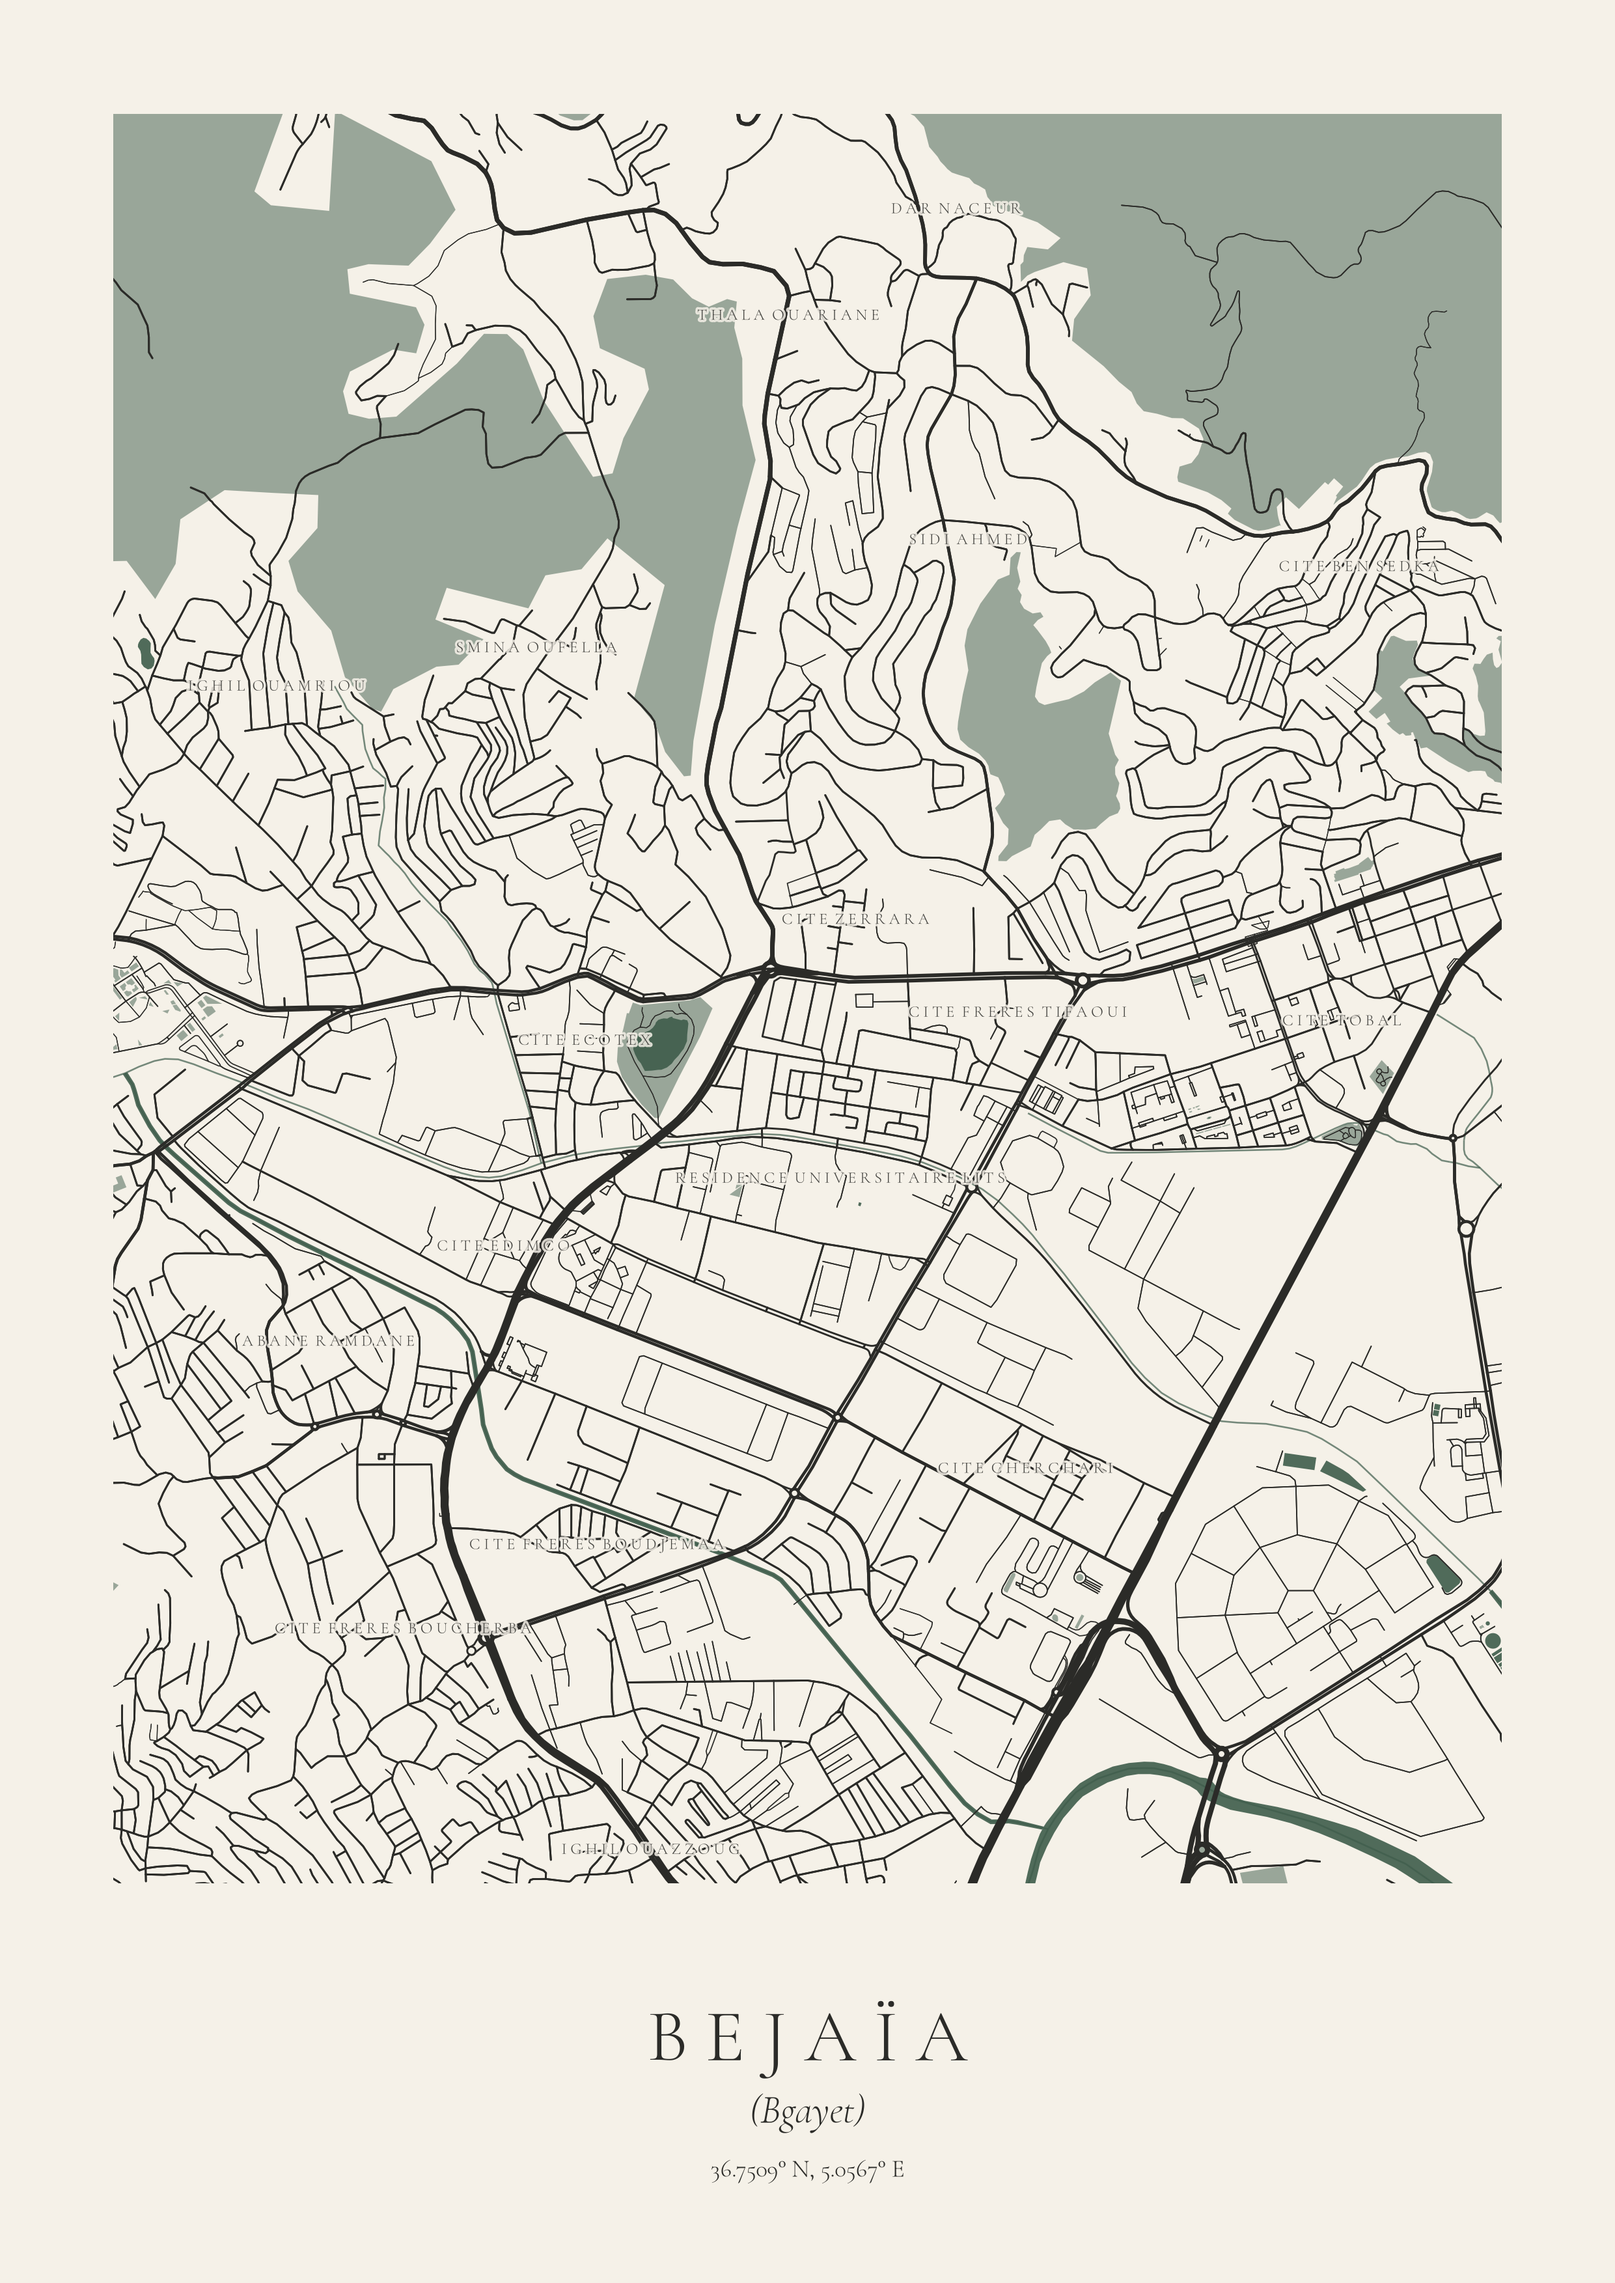
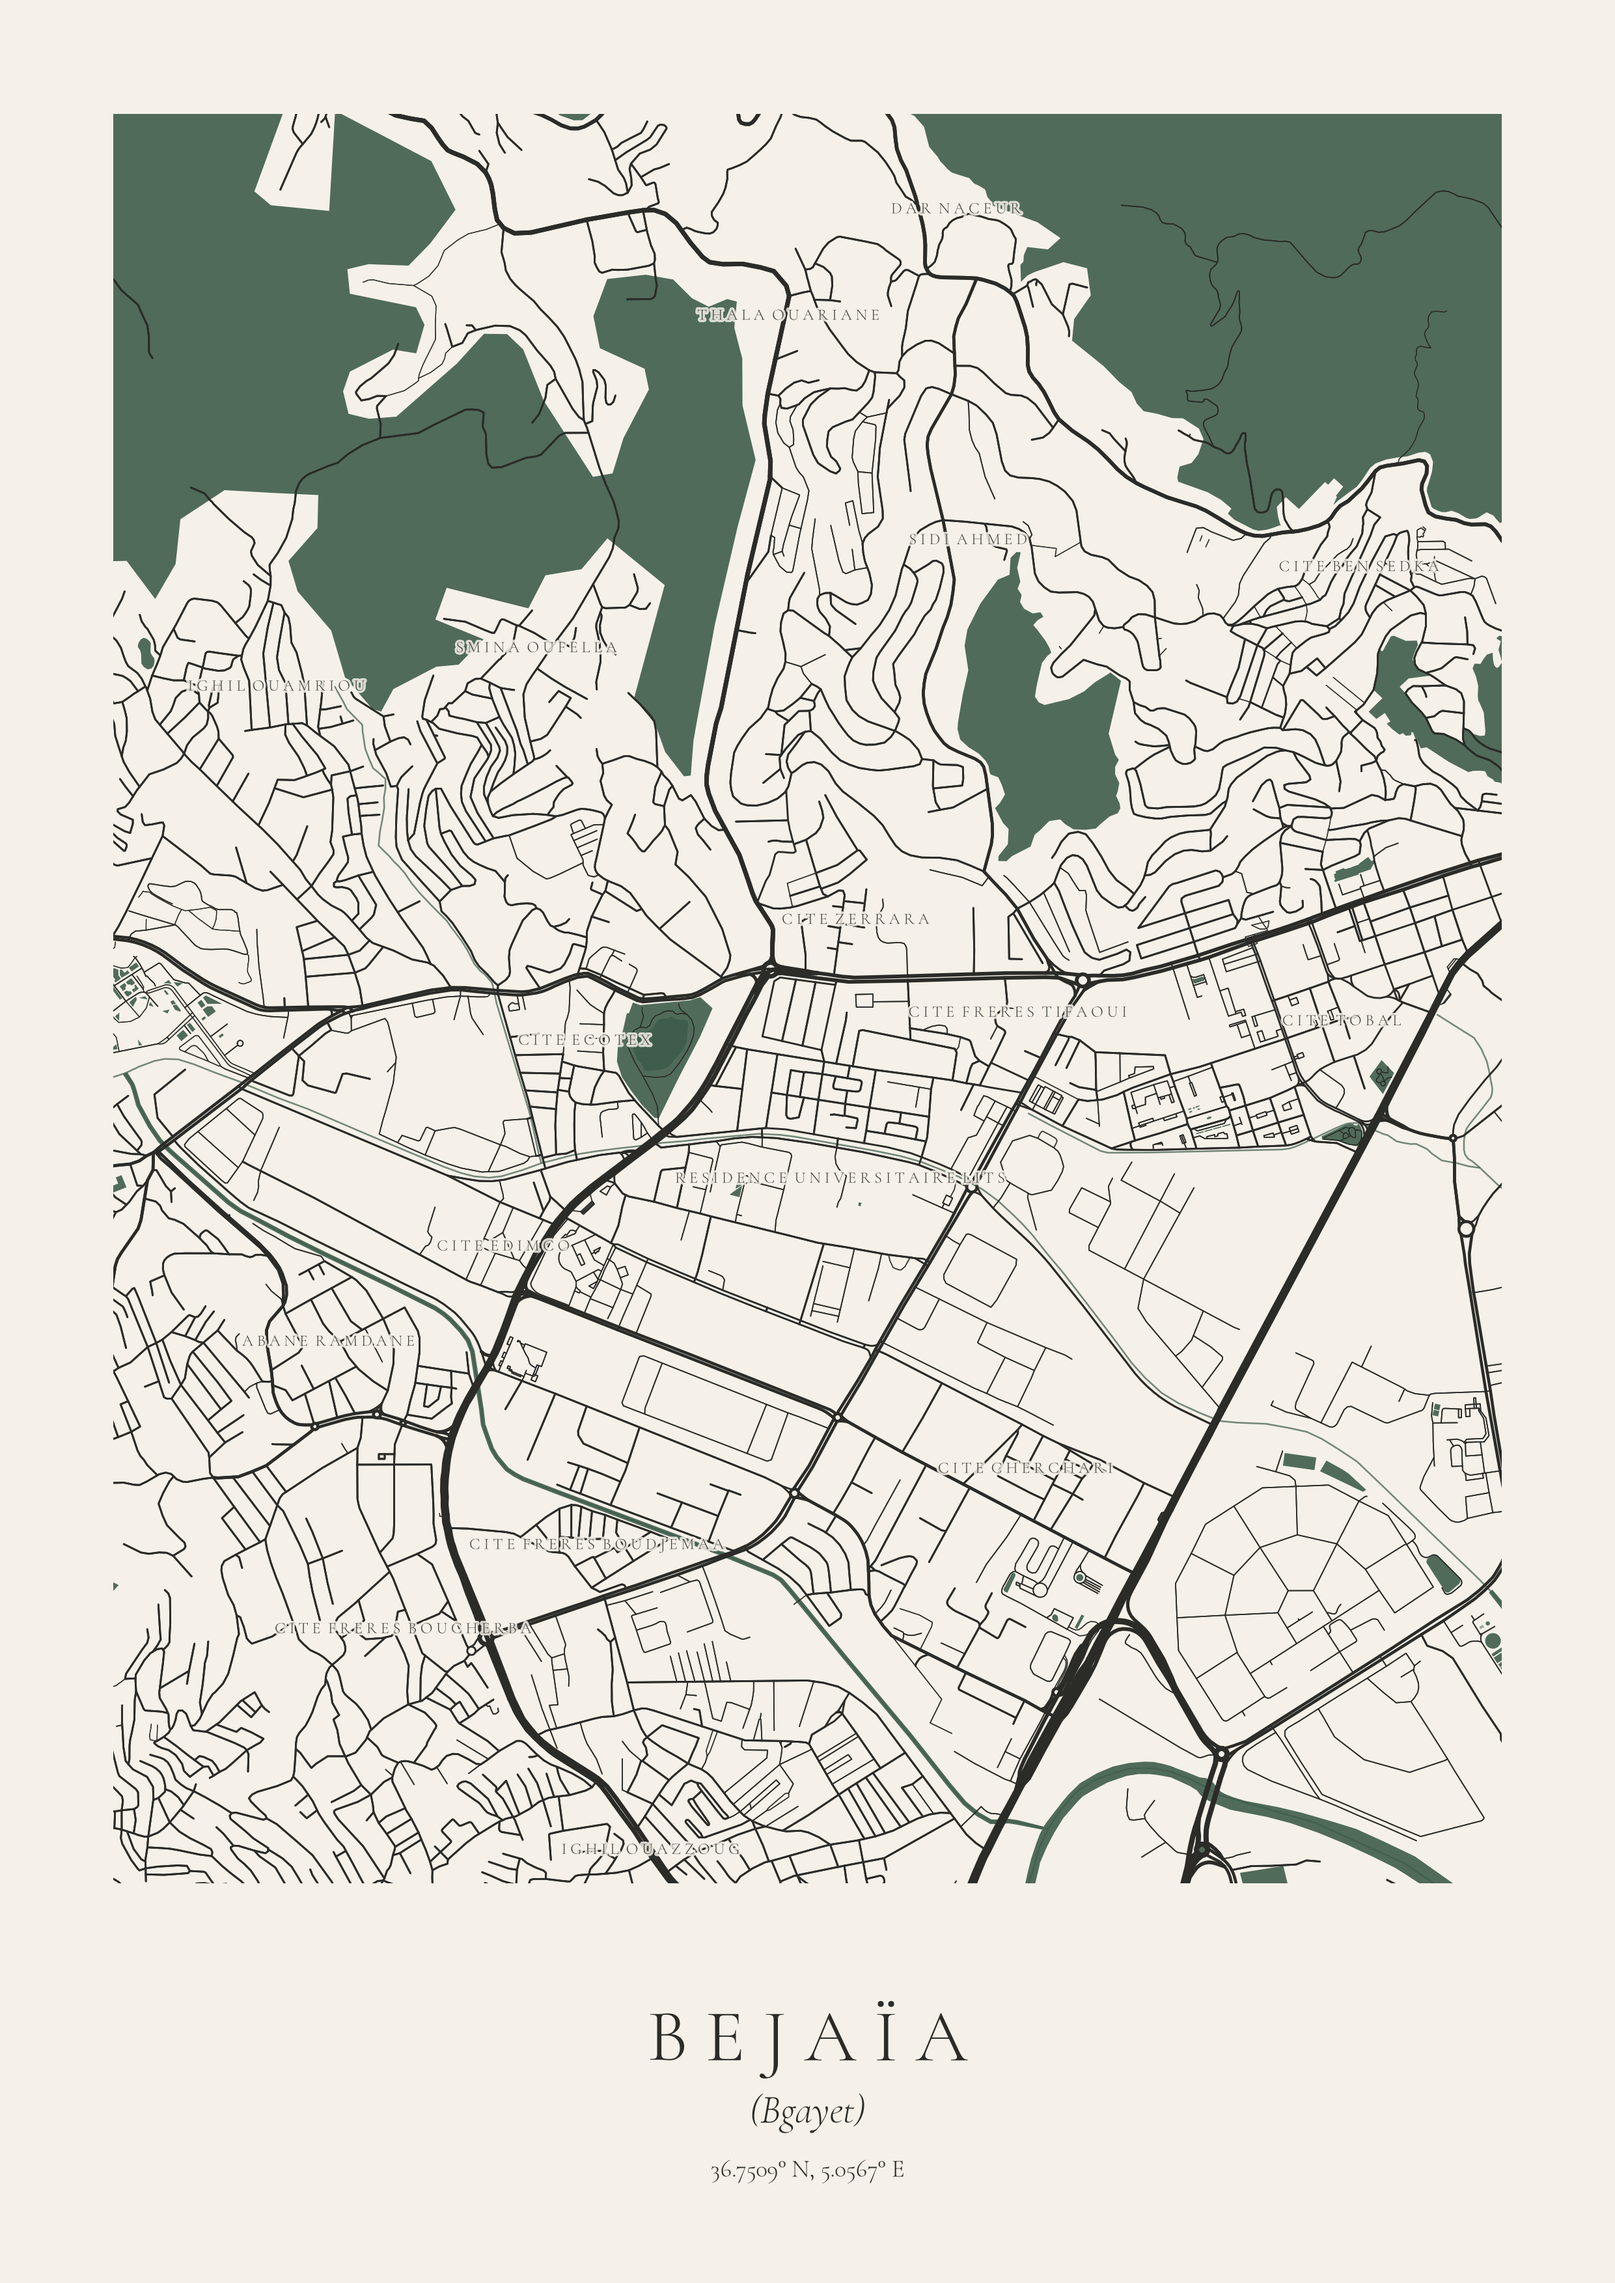
Végétation dans le même vert profond que la baie de Napoli
Alpha de la végétation aligné sur celui de l'eau (0.5 → 0.9) :
le #3E5C4B ressort désormais plein sur les quatre posters.

Claude-Session: https://claude.ai/code/session_01VsL4WMiaX4vmCrUVZkkxeR

diff --git a/make_poster.py b/make_poster.py
@@ -30,7 +30,7 @@ import osmnx as ox
 CREAM = "#F5F1E8"
 CHARCOAL = "#2B2B28"
 GREEN = "#3E5C4B"
-GREEN_ALPHA = 0.5  # opacité de la végétation : accents verts francs, fond respirant
+GREEN_ALPHA = 0.9  # opacité de la végétation — même vert profond que l'eau (Napoli)
 
 # ------------------------------------------------------------------ villes
 CITIES = {
